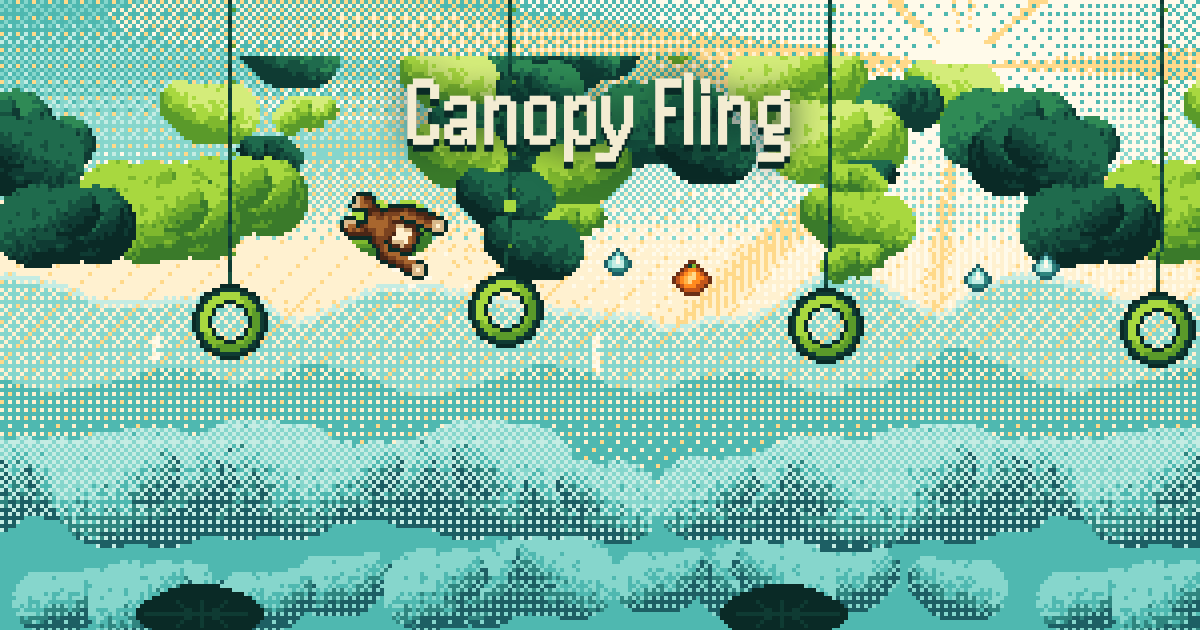
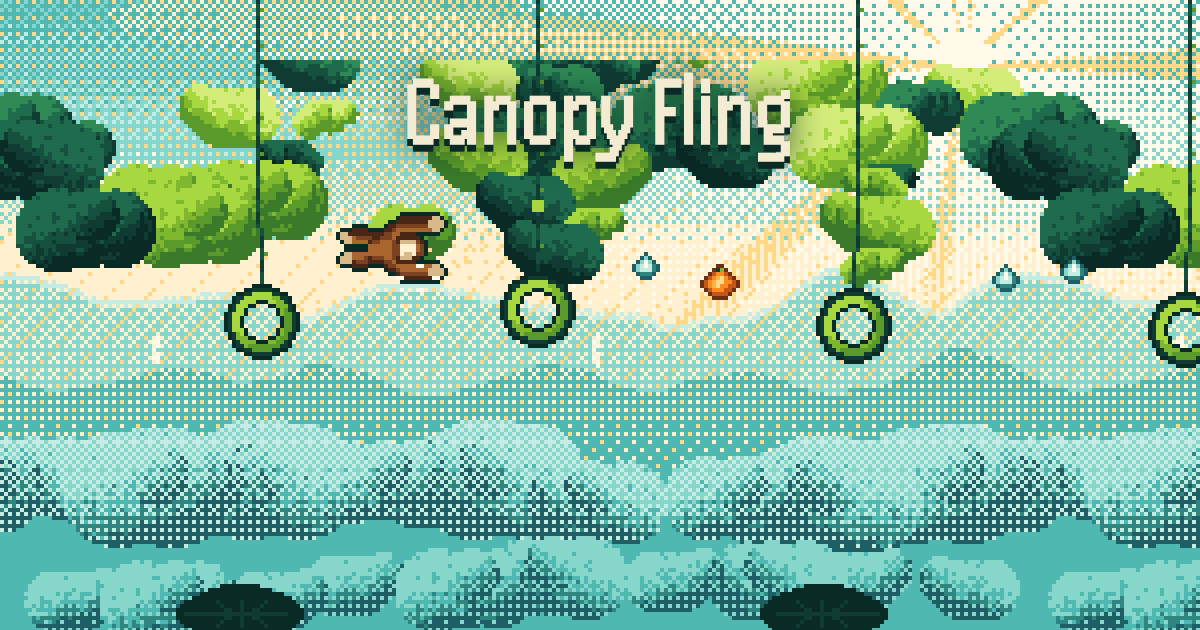
Star level bands, sim fixes

Changed region(s): [[0.0, 0.0, 1.0, 0.6032], [0.0, 0.6635, 1.0, 1.0]]

diff --git a/tools/sim-players.js b/tools/sim-players.js
@@ -12,6 +12,8 @@ var PROFILES = {
   strong: { sigma: 0.035, think: 0.35, pressLag: 0.03, retryPause: 0.6 }
 };
 var DT = SIM.DT;
+var ALLM = [];
+[0, 3, 6, 9].forEach(function (dl) { [1, 1.12, 1.24, 1.36].forEach(function (pm) { ALLM.push({ dL: dl, pump: pm, rescue: (dl + (pm > 1.2 ? 1 : 0)) % 3 }); }); });
 var OPT = { relStep: 2, maxHold: 3.2, gaps: [0], maxFlight: 2.4 };
 var AB = { rope: [20, 50, 120], swing: [20, 60, 140], magnet: [15, 40, 100], rescue: [60, 160] };
 
@@ -78,7 +80,7 @@ function run(profName, seed, endlessCount, stars) {
   plan.forEach(function (st) {
     SIM.setMods({});
     var key = st.i + ':' + st.p;
-    if (!MEMO[key]) MEMO[key] = st.i >= 24 ? LEVELS.endless(st.i - 24, [{}], 60) : (st.p > 0 ? LEVELS.starLevel(st.i, st.p, [{}], 60) : LEVELS.get(st.i));
+    if (!MEMO[key]) MEMO[key] = st.i >= 24 ? LEVELS.endless(st.i - 24, ALLM, 60) : (st.p > 0 ? LEVELS.starLevel(st.i, st.p, ALLM, 60) : LEVELS.get(st.i));
     lv = MEMO[key];
     SIM.setMods(modsOf(ab));
     if (!lv || !lv.ok) { flags.push('level ' + (st.i + 1) + '/' + st.p + ' missing'); return; }
@@ -97,7 +99,7 @@ module.exports = { run: run, PROFILES: PROFILES };
 if (require.main === module) {
   var endlessN = +(process.argv[2] || 0), runs = +(process.argv[3] || 3), STARS = +(process.argv[4] || 0);
   var hash = crypto.createHash('sha1');
-  ['sim.js', 'solver.js', 'levels.js'].forEach(function (f) { hash.update(fs.readFileSync(path.join(__dirname, '..', 'src', f))); });
+  ['sim.js', 'solver.js', 'levels.js'].forEach(function (f) { hash.update(fs.readFileSync(path.join(__dirname, '..', 'src', f))); }); hash.update(fs.readFileSync(__filename));
   var h = hash.digest('hex').slice(0, 10);
   var cdir = process.env.SIM_CACHE || path.join(__dirname, '..', '..', 'sim-cache');
   fs.mkdirSync(cdir, { recursive: true });

diff --git a/src/levels.js b/src/levels.js
@@ -150,7 +150,7 @@ var LEVELS = (function () {
     for (var at = 0; at < maxAttempts; at++) {
       var sp = specFor(i);
       sp.seed = 7000 + i * 131 + p * 977 + at * 31; sp.n += (at < 24 ? 3 : 1) * p;
-      sp.hi = Math.max(0.08, sp.hi - 0.015 * p) + (at >= 24 ? 0.05 : 0); sp.lo = at >= 24 ? 0.05 : Math.max(0.05, sp.lo - 0.015 * p);
+      sp.hi = Math.max(0.11, sp.hi - 0.01 * p) + (at >= 24 ? 0.05 : 0); sp.lo = at >= 24 ? 0.06 : Math.max(0.07, sp.lo - 0.01 * p);
       sp.id = 3000 + p * 100 + i; sp.name = 's' + p + 'l' + i;
       SIM.setMods({});
       var lv = finish(gen(sp));
@@ -164,7 +164,7 @@ var LEVELS = (function () {
       if (ok) { lv.attempt = at; return lv; }
     }
     SIM.setMods(saved);
-    return null;
+    return get(i);   /* احتياط: مرحلة الأساس نفسها (متحقَّقة) بدل مرحلة سهلة */
   }
 
   /* ---------- مسارات لا نهائية: تخلط كل القواعد، وتصعب تدريجيًا ---------- */
